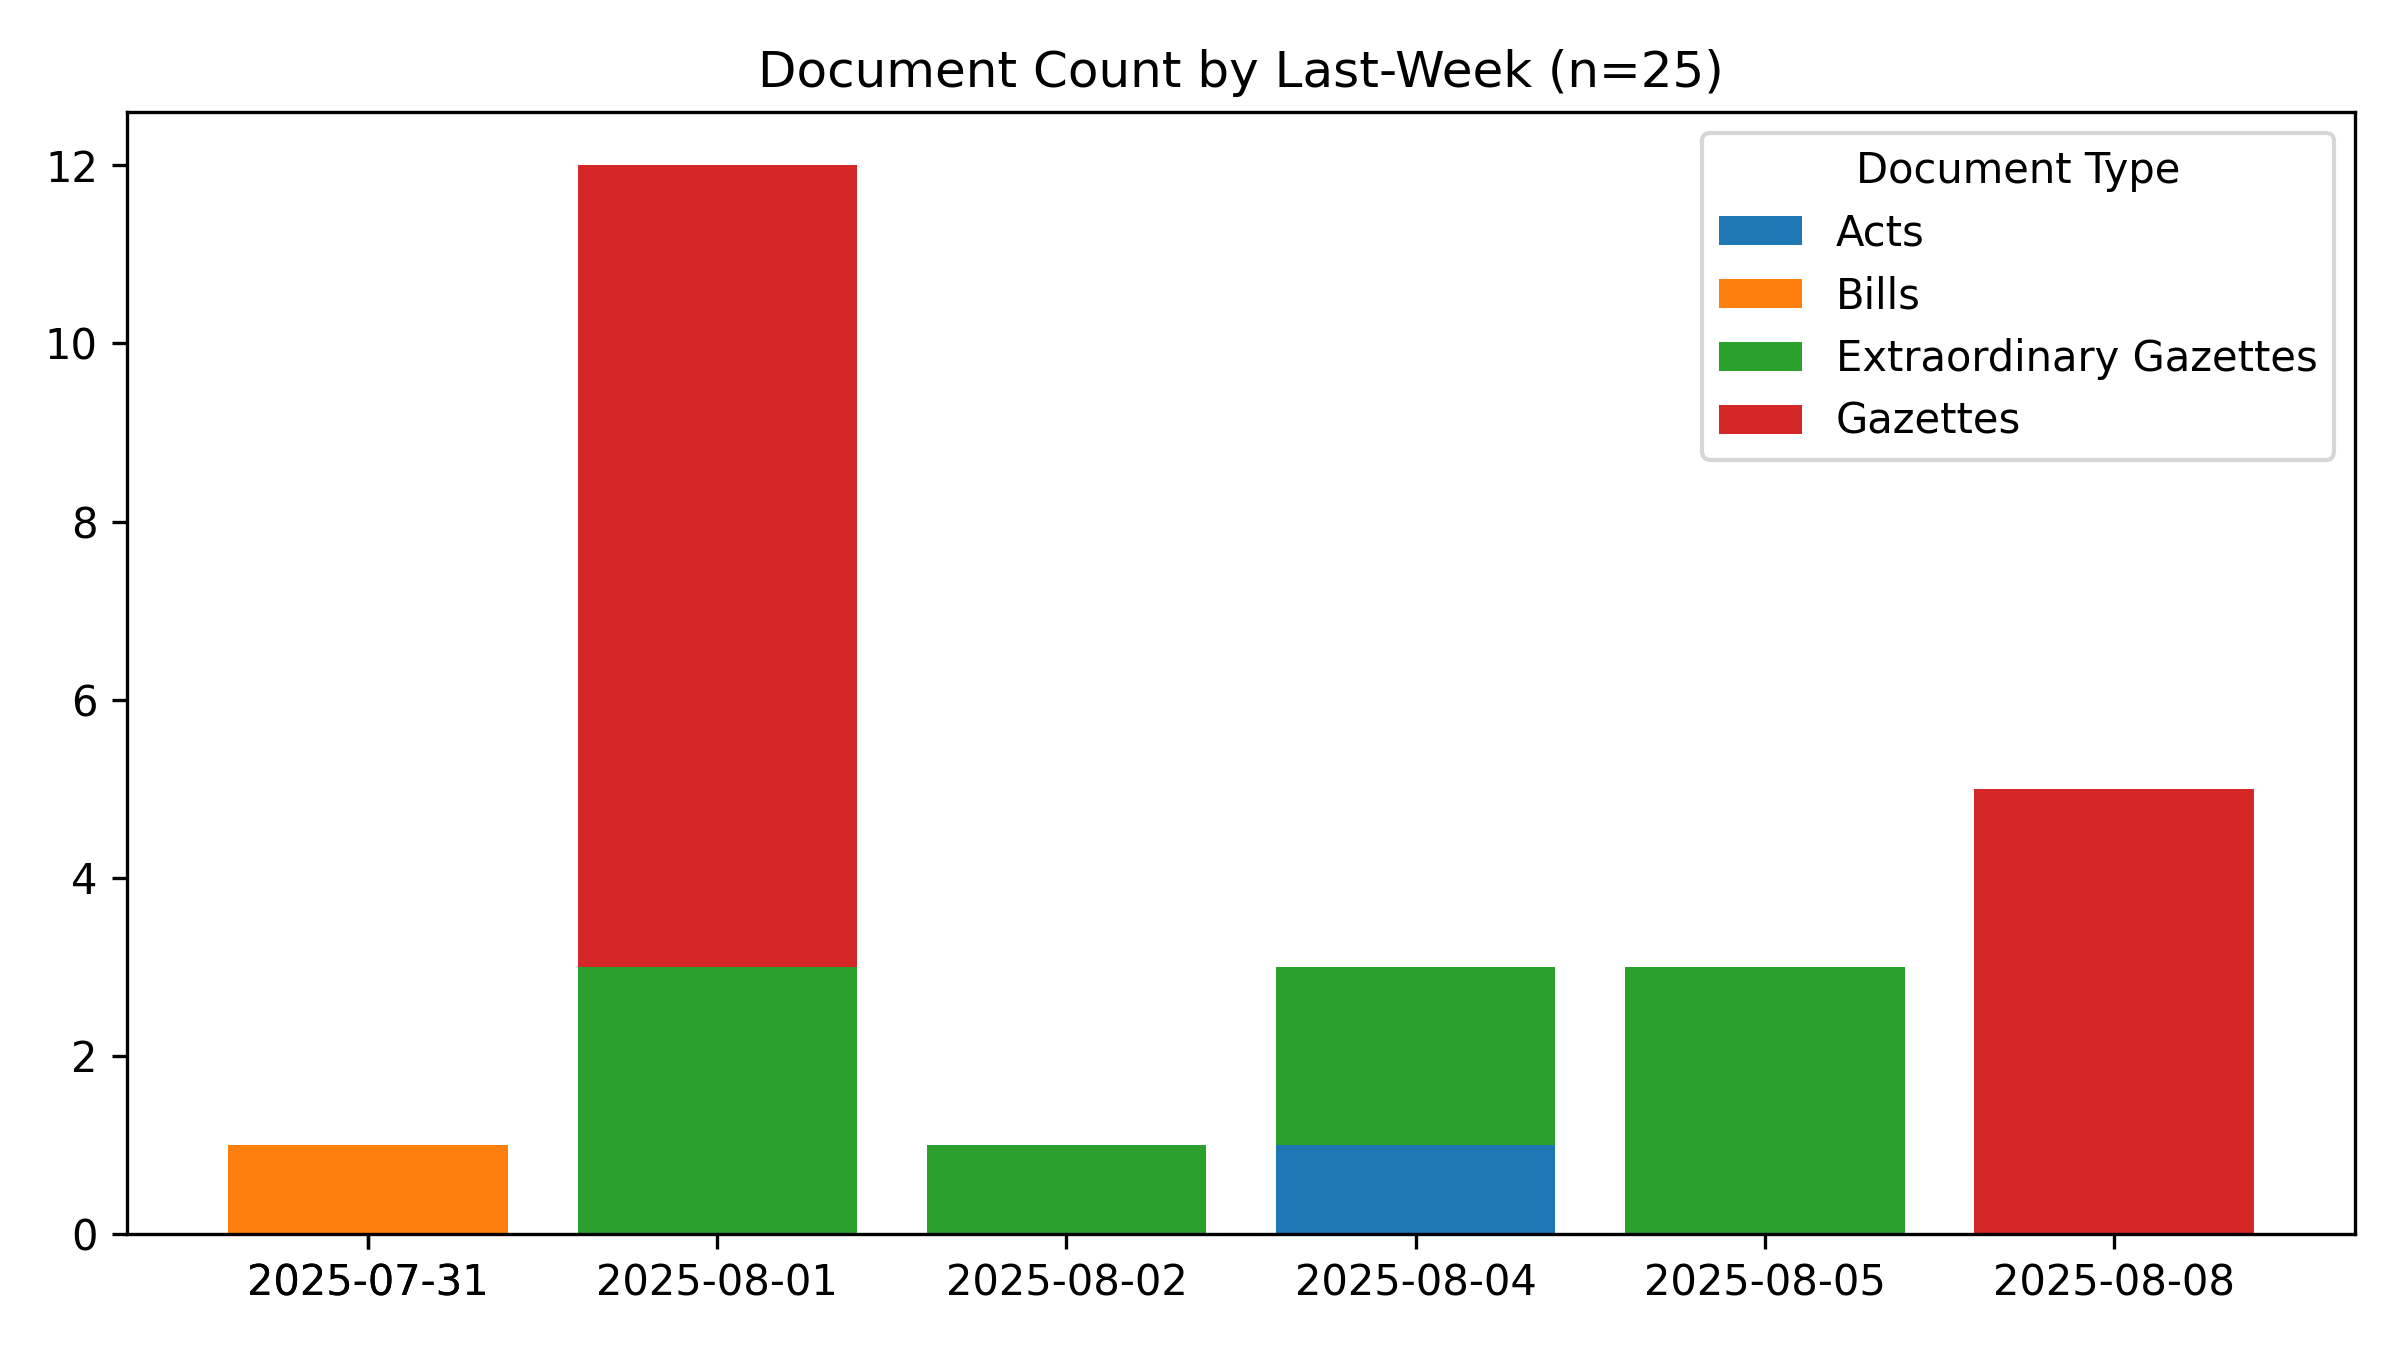
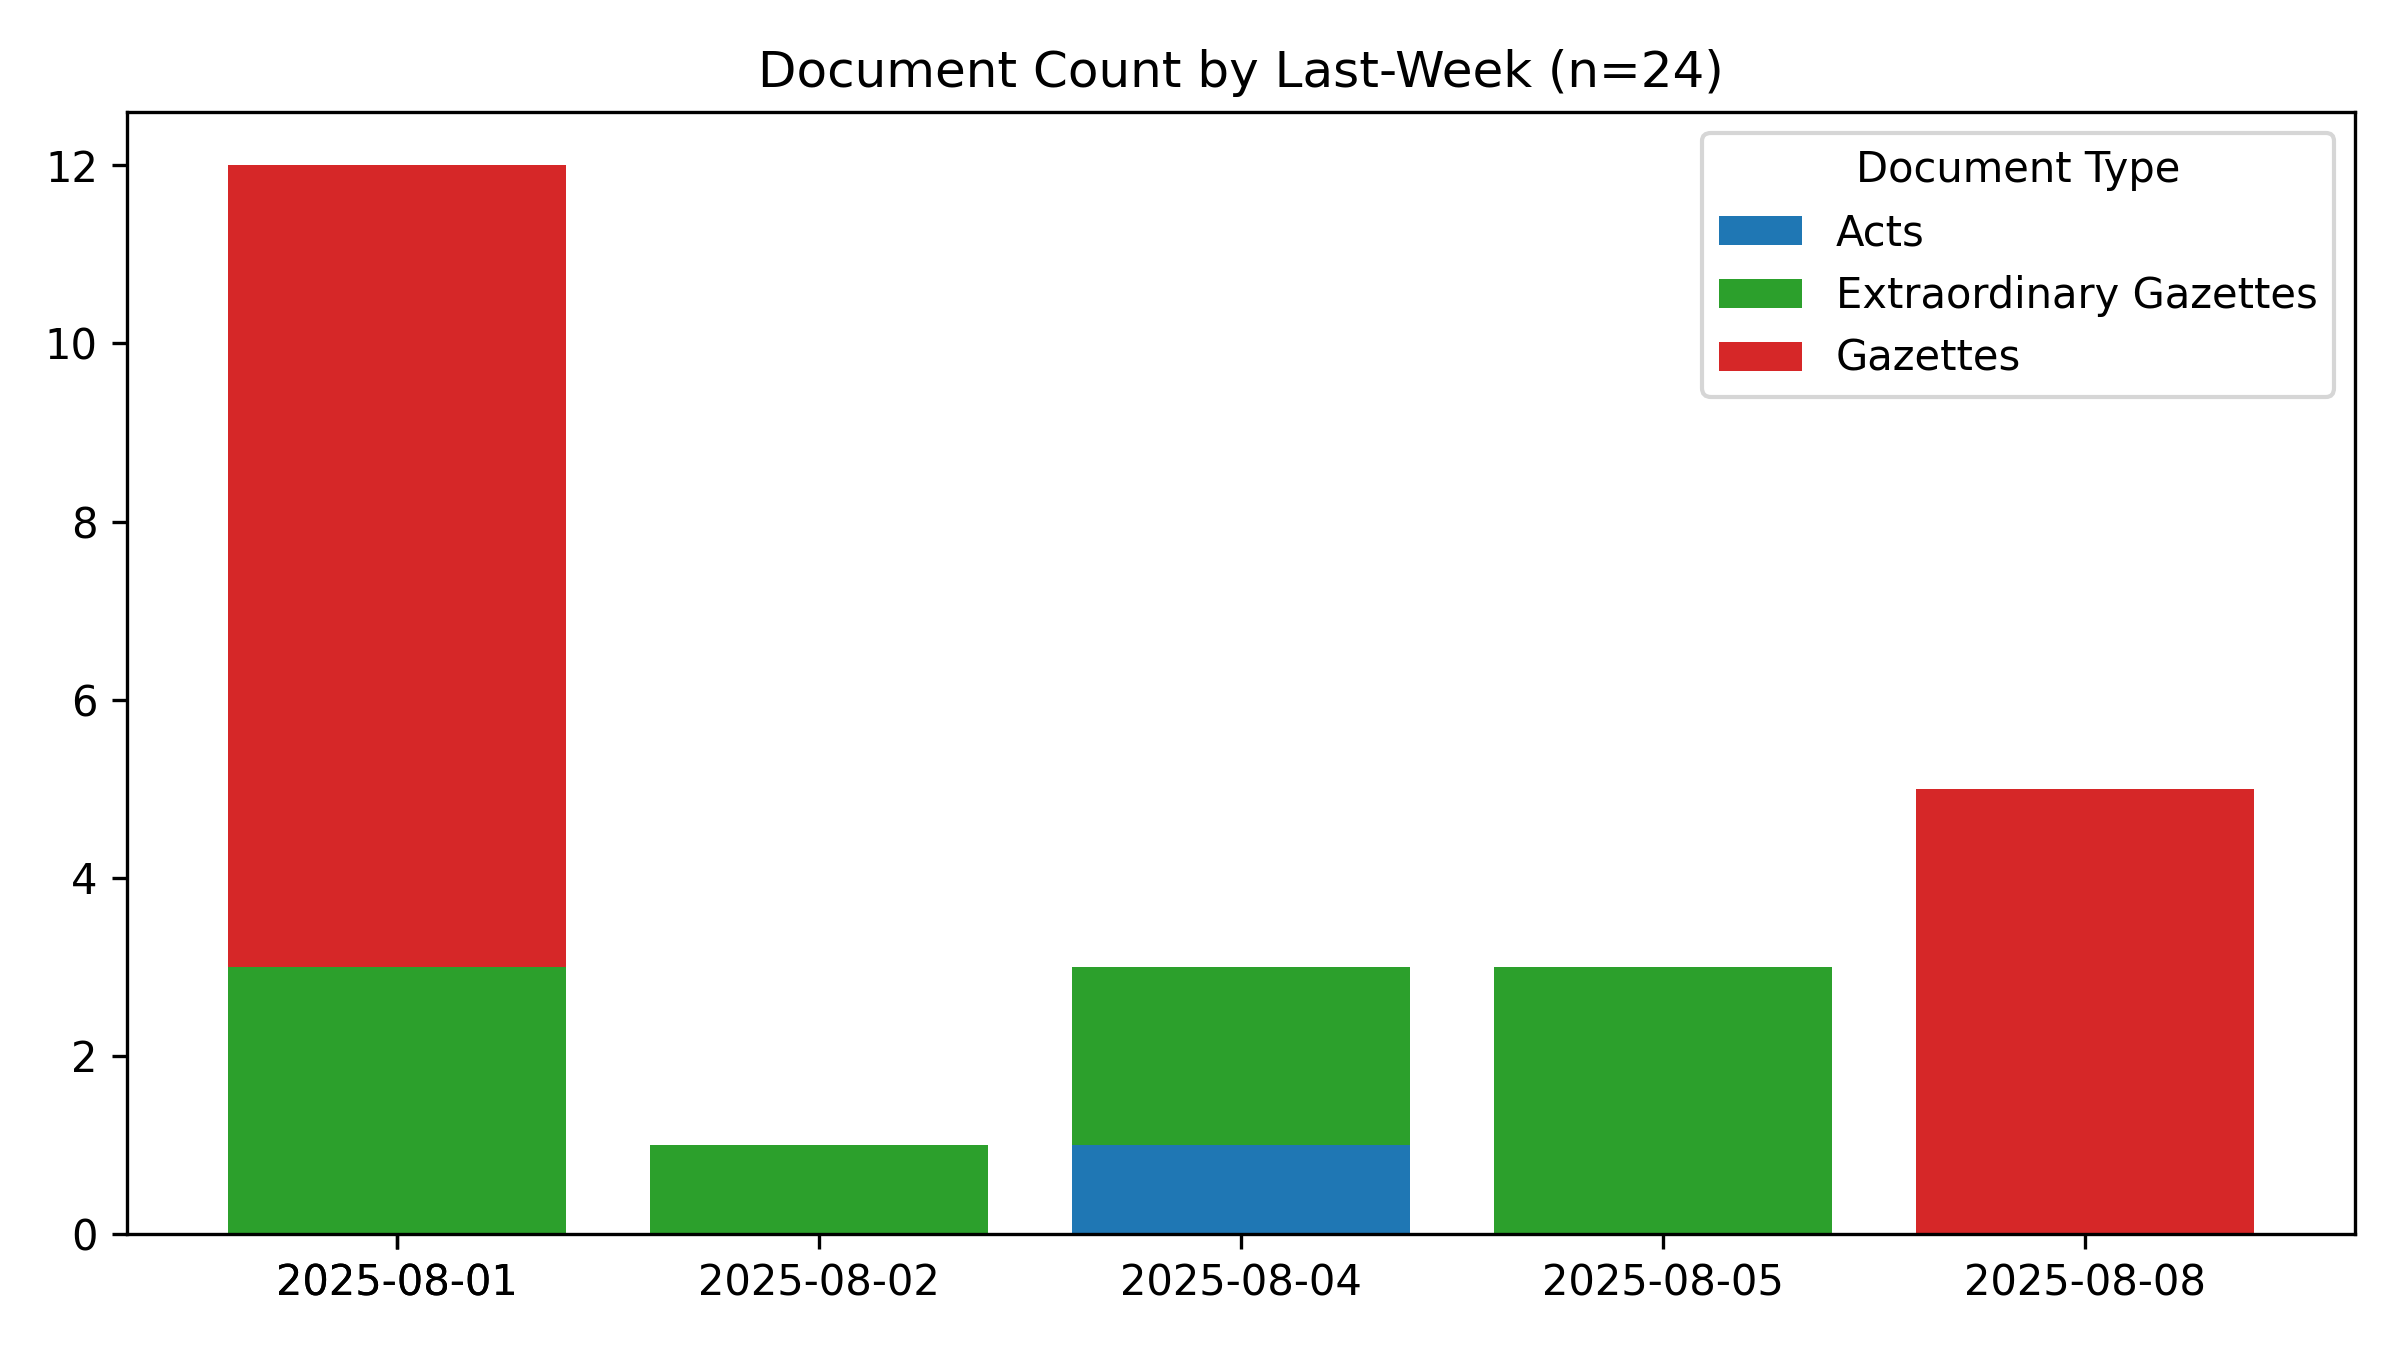
🤖 [build_readme.yml] 2025-08-08-0017

Changed region(s): [[0.0938, 0.1244, 0.9375, 0.9644], [0.6875, 0.1867, 0.9688, 0.3422], [0.6875, 0.0311, 0.7188, 0.0622]]

diff --git a/README.md b/README.md
@@ -1,6 +1,6 @@
 # #SriLanka 🇱🇰 - Legal Documents #Dataset
 
-*Last Updated **2025-08-08 05:15:19**.*
+*Last Updated **2025-08-08 05:47:14**.*
 
 **44,241** documents (24.2 MB), from 1981-01-22 to 2025-08-08.
 
@@ -36,11 +36,11 @@ For best results, use a desktop browser.
 | decade | n_docs | n_docs_with_pdfs | p_progress | n_pdfs | total_file_size_g |
 | :-- | --: | --: | --: | --: | --: |
 | [2020s](https://github.com/nuuuwan/lk_legal_docs_data/tree/data_2020s/data) | 18,032 | 18,025 | >99.9% | 51,554 | 21.1 GB |
-| [2010s](https://github.com/nuuuwan/lk_legal_docs_data/tree/data_2010s/data) | 24,451 | 23,834 | 97.5% | 68,033 | 22.1 GB |
+| [2010s](https://github.com/nuuuwan/lk_legal_docs_data/tree/data_2010s/data) | 24,451 | 23,841 | 97.5% | 68,052 | 22.1 GB |
 | [2000s](https://github.com/nuuuwan/lk_legal_docs_data/tree/data_2000s/data)✅ | 1,015 | 1,015 | 100% | 2,923 | 1.8 GB |
 | [1990s](https://github.com/nuuuwan/lk_legal_docs_data/tree/data_1990s/data)✅ | 339 | 339 | 100% | 655 | 0.2 GB |
 | [1980s](https://github.com/nuuuwan/lk_legal_docs_data/tree/data_1980s/data)✅ | 404 | 404 | 100% | 603 | 0.3 GB |
-| **Total** | **44,241** | **43,617** | **98.6%** | **123,768** | **45.4 GB** |
+| **Total** | **44,241** | **43,624** | **98.6%** | **123,787** | **45.5 GB** |
 
 (✅ = All published documents have been downloaded.)
 
@@ -56,7 +56,7 @@ For best results, use a desktop browser.
 
 ## Recent Documents (Published during the last 7 days)
 
-**25** Documents
+**24** Documents
 
 - 📢 [2025-08-08] [Land Section](https://github.com/nuuuwan/lk_legal_docs_data/tree/data_2020s/data/gazettes/2025/2025-08-08-land-section)
 - 📢 [2025-08-08] [IV (B) - Local Government](https://github.com/nuuuwan/lk_legal_docs_data/tree/data_2020s/data/gazettes/2025/2025-08-08-iv-b-local-government)
@@ -82,4 +82,3 @@ For best results, use a desktop browser.
 - 📢 [2025-08-01] [(IIB) - Advertising](https://github.com/nuuuwan/lk_legal_docs_data/tree/data_2020s/data/gazettes/2025/2025-08-01-iib-advertising)
 - 📢 [2025-08-01] [(IIA) - Advertising](https://github.com/nuuuwan/lk_legal_docs_data/tree/data_2020s/data/gazettes/2025/2025-08-01-iia-advertising)
 - 📢 [2025-08-01] [(I) - General](https://github.com/nuuuwan/lk_legal_docs_data/tree/data_2020s/data/gazettes/2025/2025-08-01-i-general)
-- ✍ [2025-07-31] [PresidentsÃ¢â¬â¢ Entitlements (Repeal) - GS](https://github.com/nuuuwan/lk_legal_docs_data/tree/data_2020s/data/bills/2025/624-2025)
